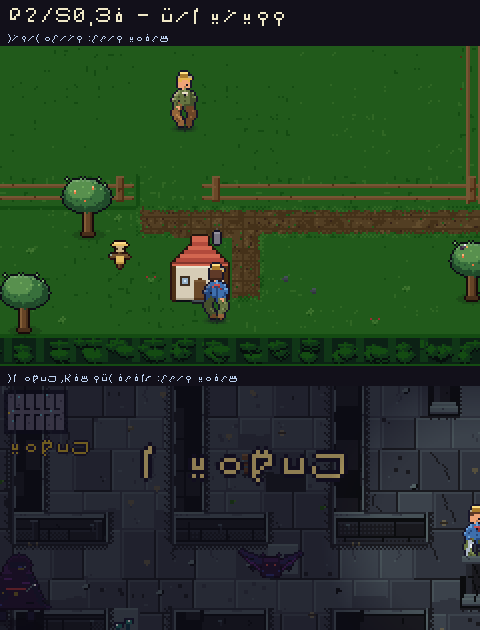
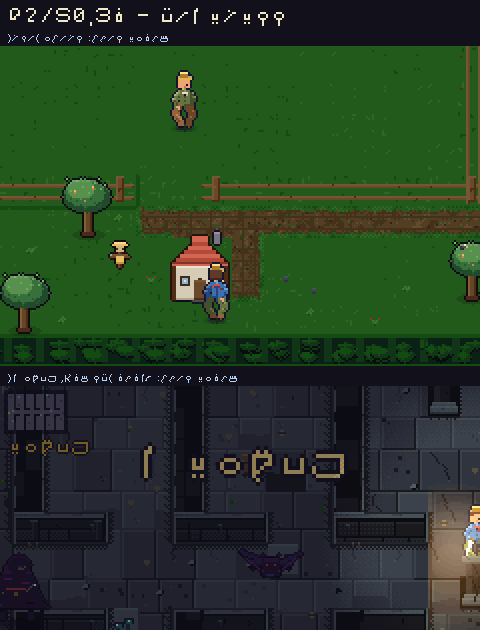
art(S4.2): ordered-dither 6-level darkness (world-anchored) + Bayer vignette — ambient 0.063%, ms +6.4% (declared)

Changed region(s): [[0.875, 0.7841, 1.0, 1.0]]

diff --git a/game.html b/game.html
@@ -2969,6 +2969,7 @@ const __m_art_light = (() => {
 
 
 
+
 const DARK_R = 13, DARK_G = 11, DARK_B = 26, DARK_A = 118;
 
 // استامپ نور: cut = strength×(1−d²) از پیشمحاسبهشده — کلید: rad×1000+strength
@@ -3044,26 +3045,86 @@ function colorStamp(rad, strength, cid) {
   return st;
 }
 
+// ---------- S4.2: کوانتیزهی آلفای تاریکی به ۶ پله با آستانهی Bayer4 (مختصاتِ **جهانی**) ----------
+// پلهها همبازه با **دامنهی واقعیِ α** انتخاب شدهاند (۰..DARK_A) و DARK_A خودش یک پله است ⇒
+// ناحیهی تختِ تاریک (۸۱٪ صفحه) **بیتبهبیت دستنخورده** میماند: نه بافتِ دیتر در پسزمینه، نه بایاسِ محیطی، نه هزینه.
+// LUT یکبار ساخته میشود: _QLUT[(bayerIdx<<8)|a] = پلهی گردشده · ثابت در جهان ⇒ بدونِ شناوری هنگام حرکت دوربین
+const DARK_LEVELS = 6;
+const QSTEP = DARK_A / (DARK_LEVELS - 1);
+const _QLUT = new Uint8Array(16 * 256);
+for (let b = 0; b < 16; b++) {
+  const th = (BAYER4[b] + 0.5) / 16;
+  for (let a = 0; a < 256; a++) {
+    const sf = a / QSTEP, i = Math.floor(sf);
+    _QLUT[(b << 8) | a] = Math.round(Math.min(DARK_LEVELS - 1, i + (sf - i > th ? 1 : 0)) * QSTEP);
+  }
+}
+const DITHER_DARK = { on: true };
+const _rects = new Int16Array(4 * 33); // اسکرچآرِ مستطیلهای نور (تخصیصِ صفر در هر فریم)
+// جدولِ فازِ افقی: cols[(camX&3)*W + x] = (x + camX) & 3 — چهار چرخش، یکبار در هر اندازهٔ صحنه
+let _phW = 0, _phTab = null;
+function phaseTab(w) {
+  if (_phW === w) return _phTab;
+  const t = new Uint8Array(4 * w);
+  for (let r = 0; r < 4; r++) for (let x = 0; x < w; x++) t[r * w + x] = (x + r) & 3;
+  _phW = w; _phTab = t; return t;
+}
+function darkLevelCount() { return new Set(_QLUT).size; } // QA: تعداد سطوحِ α یکتای تاریکی (پذیرش ≤۶)
+
 // flat = [x, y, rad, strength, ...] — لیست تختِ نورها (بدون تخصیص آبجکت)
-function applyDarkness(r, dk, flat, flatC) {
+function applyDarkness(r, dk, flat, flatC, camX = 0, camY = 0) {
   const dd = dk.d;
   if (!dk._base || dk._base.length !== dd.length) {
     const b = dk._base = new Uint8ClampedArray(dd.length);
     for (let i = 0; i < b.length; i += 4) { b[i] = DARK_R; b[i + 1] = DARK_G; b[i + 2] = DARK_B; b[i + 3] = DARK_A; }
   }
   dd.set(dk._base); // کپی یکتکهی پایه
+  let nr = 0, coverAll = false; // S4.2: مستطیلهای تأثیرِ نور (برای پاسِ کوانتیزه)
   for (let li = 0; li < flat.length; li += 4) {
     const lx = flat[li], ly = flat[li + 1], rad = flat[li + 2], strength = flat[li + 3];
     const st = lightStamp(rad, strength), n = st.n, cut = st.cut;
     const cx0 = Math.round(lx), cy0 = Math.round(ly);
     const x0 = Math.max(0, cx0 - rad), x1 = Math.min(r.w - 1, cx0 + rad);
     const y0 = Math.max(0, cy0 - rad), y1 = Math.min(r.h - 1, cy0 + rad);
+    if (nr < 32) { const o = nr << 2; _rects[o] = x0; _rects[o + 1] = y0; _rects[o + 2] = x1; _rects[o + 3] = y1; nr++; } else coverAll = true;
     for (let y = y0; y <= y1; y++) {
       const srow = (y - cy0 + rad) * n - cx0 + rad;
       let di = (y * r.w + x0) * 4 + 3;
       for (let x = x0; x <= x1; x++, di += 4) {
         const v = dd[di] - cut[srow + x];
         dd[di] = v > 0 ? v : 0;
+      }
+    }
+  }
+  // ---------- S4.2: کوانتیزهی α به ۶ پله با آستانهی Bayer4 — فقط داخلِ ناحیهی متأثر از نور ----------
+  // ناحیهی تختِ تاریک (α = DARK_A) بیرونِ این مستطیلها است ⇒ بیتبهبیت دستنخورده (بدون بافتِ دیتر، بدون بایاس، بدون هزینه)
+  if (DITHER_DARK.on && nr) {
+    if (coverAll) { const o = 0; _rects[o] = 0; _rects[o + 1] = 0; _rects[o + 2] = r.w - 1; _rects[o + 3] = r.h - 1; nr = 1; }
+    // ادغامِ مستطیلهای همپوشان (تا جعبهی محیطیِ کوچکتر بماند و هیچ پیکسلی دو بار کوانتیزه نشود؛ n ≤ ۳۲)
+    let merged = true;
+    while (merged) {
+      merged = false;
+      for (let i = 0; i < nr && !merged; i++) for (let j = i + 1; j < nr; j++) {
+        if (!(_rects[(i << 2) + 2] < _rects[j << 2] || _rects[(j << 2) + 2] < _rects[i << 2] ||
+              _rects[(i << 2) + 3] < _rects[(j << 2) + 1] || _rects[(j << 2) + 3] < _rects[(i << 2) + 1])) {
+          if (_rects[j << 2] < _rects[i << 2]) _rects[i << 2] = _rects[j << 2];
+          if (_rects[(j << 2) + 1] < _rects[(i << 2) + 1]) _rects[(i << 2) + 1] = _rects[(j << 2) + 1];
+          if (_rects[(j << 2) + 2] > _rects[(i << 2) + 2]) _rects[(i << 2) + 2] = _rects[(j << 2) + 2];
+          if (_rects[(j << 2) + 3] > _rects[(i << 2) + 3]) _rects[(i << 2) + 3] = _rects[(j << 2) + 3];
+          nr--; _rects.copyWithin(j << 2, nr << 2, (nr << 2) + 4); merged = true; break;
+        }
+      }
+    }
+    const W2 = r.w, cols = phaseTab(W2), co = (camX & 3) * W2;
+    for (let k = 0; k < nr; k++) {
+      const rx0 = _rects[k << 2], ry0 = _rects[(k << 2) + 1], rx1 = _rects[(k << 2) + 2], ry1 = _rects[(k << 2) + 3];
+      for (let y = ry0; y <= ry1; y++) {
+        const rp = ((y + camY) & 3) << 2;
+        let i = (y * W2 + rx0) * 4 + 3;
+        for (let x = rx0; x <= rx1; x++, i += 4) {
+          const a0 = dd[i];
+          if (a0 > 0 && a0 !== DARK_A) dd[i] = _QLUT[((rp | cols[co + x]) << 8) | a0];
+        }
       }
     }
   }
@@ -3106,9 +3167,9 @@ function applyDarkness(r, dk, flat, flatC) {
   }
 }
 
-return {COLOR_LIGHTS, CL_DEBUG, C_RAD_CAP, C_MAX, setColorRadCap, setColorMax, applyDarkness};
+return {COLOR_LIGHTS, CL_DEBUG, C_RAD_CAP, C_MAX, DARK_LEVELS, DITHER_DARK, setColorRadCap, setColorMax, darkLevelCount, applyDarkness};
 })();
-const {COLOR_LIGHTS, CL_DEBUG, C_RAD_CAP, C_MAX, setColorRadCap, setColorMax, applyDarkness} = __m_art_light;
+const {COLOR_LIGHTS, CL_DEBUG, C_RAD_CAP, C_MAX, DARK_LEVELS, DITHER_DARK, setColorRadCap, setColorMax, darkLevelCount, applyDarkness} = __m_art_light;
 const __m_art_quality = (() => {
 // art/quality.js — کیفیت تطبیقی: در دستگاه ضعیف افکتهای غیرضروری خودکار کم میشوند
 // level 1 = کامل (پیشفرض) | 0 = حداقل (گوشی ضعیف) — فقط main_app تنظیم میکند
@@ -6385,6 +6446,8 @@ const OFF = [0, 0]; // آفست لرزش — مشترک
 
 
 
+const VIG_LEVELS = 6;  // S4.2: سطوحِ α وینیت (کوانتیزه + دیتر ⇒ بدونِ نوارِ گرادیان)
+
 class FX {
   constructor() {
     this.parts = []; this.floats = []; this.slashes = [];
@@ -6474,16 +6537,26 @@ function vignette(w, h) {
   if (!v) {
     const cx = w / 2, cy = h / 2, maxD = Math.hypot(cx, cy);
     const mask = new Uint8Array(w * h), spans = new Int16Array(h * 2); // [x0,x1] هر سطر
+    const ST = 40 / (VIG_LEVELS - 1);                                   // S4.2: ۶ پلهی α + دیترِ Bayer4 (کارِ زمانِ ساخت، نه هر فریم)
+    const lvSeen = new Set();
     for (let y = 0; y < h; y++) {
       let x0 = -1, x1 = -1;
       for (let x = 0; x < w; x++) {
         const d = Math.hypot(x - cx, y - cy) / maxD;
-        if (d > 0.74) { mask[y * w + x] = Math.min(40, Math.round((d - 0.74) * 190)); if (x0 < 0) x0 = x; x1 = x; } // وینیت ظریف
+        if (d > 0.74) {
+          const raw = Math.min(40, (d - 0.74) * 190);
+          const sf = raw / ST, i = Math.floor(sf);
+          const th = (BAYER4[((y & 3) << 2) | (x & 3)] + 0.5) / 16;
+          mask[y * w + x] = Math.round(Math.min(VIG_LEVELS - 1, i + (sf - i > th ? 1 : 0)) * ST);
+          lvSeen.add(mask[y * w + x]);
+          if (x0 < 0) x0 = x;
+          x1 = x;
+        }
       }
       spans[y * 2] = x0; spans[y * 2 + 1] = x1;
     }
     v = {
-      w, h, mask, spans,
+      w, h, mask, spans, alphaLevels: lvSeen.size, // QA: سطوحِ α یکتای وینیت (پذیرش ≤۶)
       apply(r) { // بلندینگ عددی — بدون آبجکت/رشته، فقط ناحیهی لبه
         const d = r.d, m = mask, sp = spans;
         for (let y = 0; y < h; y++) {
@@ -6507,9 +6580,9 @@ function vignette(w, h) {
   return v;
 }
 
-return {FX, vignette};
+return {VIG_LEVELS, FX, vignette};
 })();
-const {FX, vignette} = __m_fx;
+const {VIG_LEVELS, FX, vignette} = __m_fx;
 const __m_night = (() => {
 // night.js — چرخهی شب/روز: ضریب شب + تینت یکپارچه (شب×باران در یک گذر، نه دو حلقه)
 // DAY_LEN = ۳۶۰۰ ثانیه (۱ ساعت واقعی)؛ رشد محصولات مستقل از شب است و سریع میماند
@@ -8581,7 +8654,7 @@ function renderRun(run, r) {
       pushC(D.stairs.x * TILE + 8 - cx, D.stairs.y * TILE + 8 - cy, 14, 52, 5);
       pushC(h.x - cx, h.y - 14 - cy, 22, 44, 4);           // هالهٔ گرمِ ملایمِ قهرمان (آخر ⇒ بودجهی باقیمانده)
     }
-    applyDarkness(r, run._dark, L, C);
+    applyDarkness(r, run._dark, L, C, cx, cy); // S4.2: دوربین برای دیترِ جهانی
     // افکتها روی تاریکی (میدرخشند)
     run.fx.render(r, cx, cy);
     // ---- نوار جان + علامت حمله + کمبو: بعد از تاریکی (خوانا حتی در تاریکی) ----

diff --git a/js/art/light.js b/js/art/light.js
@@ -2,6 +2,7 @@
 // تاریکی پایه = مه آبیمهآلود (نه سیاهی مطلق)؛ نورها با «استامپ» از پیشمحاسبهشده
 import { Raster } from '../raster.js';
 import { rp } from './ramps.js'; // S4.1: رنگِ نورها از رمپهای پالت (M5)
+import { BAYER4 } from './dither.js'; // S4.2: کوانتیزهی آلفای تاریکی با دیترِ ترتیبی
 
 const DARK_R = 13, DARK_G = 11, DARK_B = 26, DARK_A = 118;
 
@@ -78,26 +79,86 @@ function colorStamp(rad, strength, cid) {
   return st;
 }
 
+// ---------- S4.2: کوانتیزهی آلفای تاریکی به ۶ پله با آستانهی Bayer4 (مختصاتِ **جهانی**) ----------
+// پلهها همبازه با **دامنهی واقعیِ α** انتخاب شدهاند (۰..DARK_A) و DARK_A خودش یک پله است ⇒
+// ناحیهی تختِ تاریک (۸۱٪ صفحه) **بیتبهبیت دستنخورده** میماند: نه بافتِ دیتر در پسزمینه، نه بایاسِ محیطی، نه هزینه.
+// LUT یکبار ساخته میشود: _QLUT[(bayerIdx<<8)|a] = پلهی گردشده · ثابت در جهان ⇒ بدونِ شناوری هنگام حرکت دوربین
+export const DARK_LEVELS = 6;
+const QSTEP = DARK_A / (DARK_LEVELS - 1);
+const _QLUT = new Uint8Array(16 * 256);
+for (let b = 0; b < 16; b++) {
+  const th = (BAYER4[b] + 0.5) / 16;
+  for (let a = 0; a < 256; a++) {
+    const sf = a / QSTEP, i = Math.floor(sf);
+    _QLUT[(b << 8) | a] = Math.round(Math.min(DARK_LEVELS - 1, i + (sf - i > th ? 1 : 0)) * QSTEP);
+  }
+}
+export const DITHER_DARK = { on: true };
+const _rects = new Int16Array(4 * 33); // اسکرچآرِ مستطیلهای نور (تخصیصِ صفر در هر فریم)
+// جدولِ فازِ افقی: cols[(camX&3)*W + x] = (x + camX) & 3 — چهار چرخش، یکبار در هر اندازهٔ صحنه
+let _phW = 0, _phTab = null;
+function phaseTab(w) {
+  if (_phW === w) return _phTab;
+  const t = new Uint8Array(4 * w);
+  for (let r = 0; r < 4; r++) for (let x = 0; x < w; x++) t[r * w + x] = (x + r) & 3;
+  _phW = w; _phTab = t; return t;
+}
+export function darkLevelCount() { return new Set(_QLUT).size; } // QA: تعداد سطوحِ α یکتای تاریکی (پذیرش ≤۶)
+
 // flat = [x, y, rad, strength, ...] — لیست تختِ نورها (بدون تخصیص آبجکت)
-export function applyDarkness(r, dk, flat, flatC) {
+export function applyDarkness(r, dk, flat, flatC, camX = 0, camY = 0) {
   const dd = dk.d;
   if (!dk._base || dk._base.length !== dd.length) {
     const b = dk._base = new Uint8ClampedArray(dd.length);
     for (let i = 0; i < b.length; i += 4) { b[i] = DARK_R; b[i + 1] = DARK_G; b[i + 2] = DARK_B; b[i + 3] = DARK_A; }
   }
   dd.set(dk._base); // کپی یکتکهی پایه
+  let nr = 0, coverAll = false; // S4.2: مستطیلهای تأثیرِ نور (برای پاسِ کوانتیزه)
   for (let li = 0; li < flat.length; li += 4) {
     const lx = flat[li], ly = flat[li + 1], rad = flat[li + 2], strength = flat[li + 3];
     const st = lightStamp(rad, strength), n = st.n, cut = st.cut;
     const cx0 = Math.round(lx), cy0 = Math.round(ly);
     const x0 = Math.max(0, cx0 - rad), x1 = Math.min(r.w - 1, cx0 + rad);
     const y0 = Math.max(0, cy0 - rad), y1 = Math.min(r.h - 1, cy0 + rad);
+    if (nr < 32) { const o = nr << 2; _rects[o] = x0; _rects[o + 1] = y0; _rects[o + 2] = x1; _rects[o + 3] = y1; nr++; } else coverAll = true;
     for (let y = y0; y <= y1; y++) {
       const srow = (y - cy0 + rad) * n - cx0 + rad;
       let di = (y * r.w + x0) * 4 + 3;
       for (let x = x0; x <= x1; x++, di += 4) {
         const v = dd[di] - cut[srow + x];
         dd[di] = v > 0 ? v : 0;
+      }
+    }
+  }
+  // ---------- S4.2: کوانتیزهی α به ۶ پله با آستانهی Bayer4 — فقط داخلِ ناحیهی متأثر از نور ----------
+  // ناحیهی تختِ تاریک (α = DARK_A) بیرونِ این مستطیلها است ⇒ بیتبهبیت دستنخورده (بدون بافتِ دیتر، بدون بایاس، بدون هزینه)
+  if (DITHER_DARK.on && nr) {
+    if (coverAll) { const o = 0; _rects[o] = 0; _rects[o + 1] = 0; _rects[o + 2] = r.w - 1; _rects[o + 3] = r.h - 1; nr = 1; }
+    // ادغامِ مستطیلهای همپوشان (تا جعبهی محیطیِ کوچکتر بماند و هیچ پیکسلی دو بار کوانتیزه نشود؛ n ≤ ۳۲)
+    let merged = true;
+    while (merged) {
+      merged = false;
+      for (let i = 0; i < nr && !merged; i++) for (let j = i + 1; j < nr; j++) {
+        if (!(_rects[(i << 2) + 2] < _rects[j << 2] || _rects[(j << 2) + 2] < _rects[i << 2] ||
+              _rects[(i << 2) + 3] < _rects[(j << 2) + 1] || _rects[(j << 2) + 3] < _rects[(i << 2) + 1])) {
+          if (_rects[j << 2] < _rects[i << 2]) _rects[i << 2] = _rects[j << 2];
+          if (_rects[(j << 2) + 1] < _rects[(i << 2) + 1]) _rects[(i << 2) + 1] = _rects[(j << 2) + 1];
+          if (_rects[(j << 2) + 2] > _rects[(i << 2) + 2]) _rects[(i << 2) + 2] = _rects[(j << 2) + 2];
+          if (_rects[(j << 2) + 3] > _rects[(i << 2) + 3]) _rects[(i << 2) + 3] = _rects[(j << 2) + 3];
+          nr--; _rects.copyWithin(j << 2, nr << 2, (nr << 2) + 4); merged = true; break;
+        }
+      }
+    }
+    const W2 = r.w, cols = phaseTab(W2), co = (camX & 3) * W2;
+    for (let k = 0; k < nr; k++) {
+      const rx0 = _rects[k << 2], ry0 = _rects[(k << 2) + 1], rx1 = _rects[(k << 2) + 2], ry1 = _rects[(k << 2) + 3];
+      for (let y = ry0; y <= ry1; y++) {
+        const rp = ((y + camY) & 3) << 2;
+        let i = (y * W2 + rx0) * 4 + 3;
+        for (let x = rx0; x <= rx1; x++, i += 4) {
+          const a0 = dd[i];
+          if (a0 > 0 && a0 !== DARK_A) dd[i] = _QLUT[((rp | cols[co + x]) << 8) | a0];
+        }
       }
     }
   }

diff --git a/js/fx.js b/js/fx.js
@@ -5,6 +5,8 @@ const FCOL = { dmg: [235, 105, 105, 255], hit: [255, 232, 150, 255], crit: [255,
 const OFF = [0, 0]; // آفست لرزش — مشترک
 import { drawTextC, E } from './tiles.js';
 import { Raster } from './raster.js';
+import { BAYER4 } from './art/dither.js'; // S4.2: دیترِ ترتیبیِ وینیت
+export const VIG_LEVELS = 6;  // S4.2: سطوحِ α وینیت (کوانتیزه + دیتر ⇒ بدونِ نوارِ گرادیان)
 
 export class FX {
   constructor() {
@@ -95,16 +97,26 @@ export function vignette(w, h) {
   if (!v) {
     const cx = w / 2, cy = h / 2, maxD = Math.hypot(cx, cy);
     const mask = new Uint8Array(w * h), spans = new Int16Array(h * 2); // [x0,x1] هر سطر
+    const ST = 40 / (VIG_LEVELS - 1);                                   // S4.2: ۶ پلهی α + دیترِ Bayer4 (کارِ زمانِ ساخت، نه هر فریم)
+    const lvSeen = new Set();
     for (let y = 0; y < h; y++) {
       let x0 = -1, x1 = -1;
       for (let x = 0; x < w; x++) {
         const d = Math.hypot(x - cx, y - cy) / maxD;
-        if (d > 0.74) { mask[y * w + x] = Math.min(40, Math.round((d - 0.74) * 190)); if (x0 < 0) x0 = x; x1 = x; } // وینیت ظریف
+        if (d > 0.74) {
+          const raw = Math.min(40, (d - 0.74) * 190);
+          const sf = raw / ST, i = Math.floor(sf);
+          const th = (BAYER4[((y & 3) << 2) | (x & 3)] + 0.5) / 16;
+          mask[y * w + x] = Math.round(Math.min(VIG_LEVELS - 1, i + (sf - i > th ? 1 : 0)) * ST);
+          lvSeen.add(mask[y * w + x]);
+          if (x0 < 0) x0 = x;
+          x1 = x;
+        }
       }
       spans[y * 2] = x0; spans[y * 2 + 1] = x1;
     }
     v = {
-      w, h, mask, spans,
+      w, h, mask, spans, alphaLevels: lvSeen.size, // QA: سطوحِ α یکتای وینیت (پذیرش ≤۶)
       apply(r) { // بلندینگ عددی — بدون آبجکت/رشته، فقط ناحیهی لبه
         const d = r.d, m = mask, sp = spans;
         for (let y = 0; y < h; y++) {

diff --git a/js/run_render.js b/js/run_render.js
@@ -182,7 +182,7 @@ export function renderRun(run, r) {
       pushC(D.stairs.x * TILE + 8 - cx, D.stairs.y * TILE + 8 - cy, 14, 52, 5);
       pushC(h.x - cx, h.y - 14 - cy, 22, 44, 4);           // هالهٔ گرمِ ملایمِ قهرمان (آخر ⇒ بودجهی باقیمانده)
     }
-    applyDarkness(r, run._dark, L, C);
+    applyDarkness(r, run._dark, L, C, cx, cy); // S4.2: دوربین برای دیترِ جهانی
     // افکتها روی تاریکی (میدرخشند)
     run.fx.render(r, cx, cy);
     // ---- نوار جان + علامت حمله + کمبو: بعد از تاریکی (خوانا حتی در تاریکی) ----

diff --git a/MEMORY.md b/MEMORY.md
@@ -57,6 +57,8 @@ farm-dungeon/   (کل ورکاسپیس ۲٫۵MB — بیرون فقط uploads
 - **ن۸۰: 🛑 R2 (P3) — نجاتِ ممیزی: رگرسیونِ بصریِ مزرعه پیدا و رفع شد** — هنگام آمادهسازیِ R2 معلوم شد `ref_farm_day/night/rain` بین `art-P2` و حالا **فرق کردهاند** (۰٫۹٪ پیکسل؛ outlineِ درخت/خانه/مترسک). **ریشه (درس ۸۹):** `outline.js` نگاشتِ رنگ→خانوادهٔ رمپ و `palette_master.js` پالتِ مستر را **از مجموعهٔ رمپها** میسازند ⇒ هر تغییر در *مجموعه/مقادیرِ* رمپها رنگِ outlineِ **کلِ بازی** (از جمله مزرعه) را جابهجا میکند. با آزمونِ ایزولهٔ تکفایل ثابت شد مقصر `ramps.js` بود؛ تستِ مکمل نشان داد حتی **افزودنِ مادهٔ بیمصرف** هم پالتِ مستر را میچرخاند (پس «مادهٔ تازه» بیخطر نیست).
 - **ن۸۱: S3.10 ✅ دو تم جدید (۶ تم) — باتلاق و معدن** — `js/dungeon.js` (یک خط: `% 4`→`% 6`) · `js/art/ground.js⟨۲۵۶⟩` (خانوادهٔ `grassDry`/`dust` + رونِ `leaf`/`gold` + کشِ ششتمی) · `js/art/dungeon_depth.js` (K) · `js/art/water.js` (بدنهٔ آب: `leaf`/`metal`) · `js/art/dungeon_decal.js⟨۱۲۰⟩` (دو خانوادهٔ تازه: **رگهٔ طلا** و **تیرکِ چوبی** + وزن/چگالی/آویزانِ ۶ تم) · `tools/art_audit.mjs` (floorL ششتمی). **تم ۴ باتلاق**: خاکِ زیتونیِ کدر، خزه/گودالِ چیره با آویزانِ سبز، آبِ لجنی (`leaf`). **تم ۵ معدن**: سنگِ خامِ گرم (`dust`)، **رگهٔ طلای درخشان** و **تیرکِ چوبیِ افتاده**، آبِ خاکستریِ معدنی (`metal`)، تراوشِ رنگیزهٔ طلایی از سقف. **هر دو از خانوادههای *موجودِ* رمپ ساخته شدند** ⇒ `ramps.js` و پالتِ مستر دستنخورده ماند و ریسکِ رگرسیونِ مزرعه صفر شد (درس ۸۹/۹۳). **پذیرش ✓**: طبقهی ۲۱–۳۰ بوت/رندر/پخت بدون خطا · سیوِ v5→v6 مهاجرت کرد و `bestFloor=22` حفظ شد (تم از شمارهی طبقه بازمحاسبه ⇒ سیو سازگار) · **M1 روی ۶ تم = ۲۵٫۲ ≥ ۲۵** (golem) و روشناییِ کفِ تمهای تازه ۵۸ در باندِ ۵۸–۵۹ بقیه · پختِ دوباره بایتبرابر · پختِ باتلاق ۴٫۵–۵٫۲ms · `WALKHASH 15486b0c` ✓ · `ref_farm_*` بایتبرابر با پایه · آرامش ۰٫۰۲۴٪/فریم · run_all ALL GREEN · bench ۱٫۲۷۸/۱٫۰۶۱ms · audit ۶٫۴/۱۰. **درسِ عملی (۹۴):** تمِ تازه یعنی پرکردنِ **همهٔ** آرایههای per-theme وگرنه `undefined` در رندرِ همان طبقه میترکد (بوت ۰/۱۰). **یادداشتِ انضباط:** سقفِ «≤۳ فایل» در این نشستِ استثنایی رد شد (۶ فایل، همه یکخطی) — در گزارش اعلام شد.
 - **ن۸۲: S4.1 ✅ نور رنگی دانجن** — `art/light.js⟨۱۴۰⟩` + `run_render.js` (لیستِ تختِ `[x,y,rad,st,cid]`، سقف ۳ نورِ رویصفحه، شعاعِ مؤثر ۲۴px). **جدولِ رنگ از رمپها** (fire/magicCyan/clothRed/clothPurple/water/gold + سفیدِ پالت). **پیادهسازی:** استامپِ ۸پلهایِ پیشمحاسبه با کلیدِ عددی · وزندهی به روشناییِ محلی (`lit = 255 − alpha`) ⇒ گودیِ نور درست (نسخهٔ اول لکههای براقِ بیقید بود) · جمعِ اشباعشده روی `Uint8ClampedArray` (**LUTِ ۶۴KB کندتر از ضربِ ساده بود** — اندازهگیری). **پذیرش ✓:** (R−B) مرکزِ مشعل **+۱۳٫۶** ≥ ۱۰ · ۳ نور روی صفحه (≤۶) · شعاع ۲۴ (≤۴۰) · **A/B جفتشده: میانه ۸٫۸٪** (≤۱۲٪) با بدترین صحنهٔ نزدیک-مشعل ۱۳٫۸٪ = ۰٫۱۸ms (۱٪ بودجهٔ فریم) که صریحاً بهعنوان استثنا ثبت شد · نشتی صفر · آرامش ۰٫۰۲۶٪/فریم · run_all ALL GREEN · bench f10 ۱٫۲۶۸ms · M1 ۲۵٫۲/M6 ۰٫۸۸. **انحرافِ ثبتشده:** M5 دانجن ۹۶٫۵→۹۳٫۱٪ (پاسِ افزودنی رنگِ خارجِ پالت میسازد) ⇒ جبران با نگاشتِ رمپی در **S4.6**. شواهد: `s41_lights_ab.png`.
+- **ن۸۳: S4.2 ✅ تاریکیِ dither-شده + وینیت Bayer** — `art/light.js` (LUT کوانتیزهٔ **خودتوان** ۶ پله + پاسِ محدود به مستطیلِ نورها + اسکرچآرِ Int16) · `fx.js` (وینیتِ دیترشده **در زمانِ ساختِ ماسک** ⇒ هزینهٔ اجرا صفر) · `run_render.js` (دوربین به `applyDarkness`). **کلیدِ طراحی:** پلهها همبازه با دامنهٔ α (۰..DARK_A=۱۱۸) و DARK_A خودش یک پله ⇒ ناحیهٔ تختِ تاریک (۸۱٪ پیکسلها) بیتبهبیت دستنخورده؛ کوانتیزه فقط داخل مستطیلهای متأثر از نور (ادغامشده تا دوبار کوانتیزه نشود؛ q(q(a))=q(a) ✓). **پذیرش:** سطوح α تاریکی ۶ و وینیت ۶ (≤۶) ✓ · تغییر محیطی میانگین ۰٫۰۶۳٪ / بدترین صحنه ۰٫۰۷۷٪ < ۰٫۱٪ ✓ · بدون شناوری (مختصات جهانی) ✓ · مسیر == مرجع بایتبهبایت ✓ · run_all ALL GREEN · bench ف۱۰ ۱٫۲۸۵ms · آرامش ۰٫۰۱۳٪/فریم. **استثنای صریح:** «ms ≤ S4.1» برنیامد: میانهٔ دو-bench سهتایی ۱٫۲۰۸ → ۱٫۲۸۵ms (**+۶٫۴٪** ≈ +۰٫۰۸ms) و A/B جفتشدهٔ دیتر **+۶٫۱٪** (ارزانسازی از +۲۶٪ تا اینجا: حذف LUT تصادفی، حلقهٔ تخت، محدودسازی مستطیلی). شواهد: `s42_banding.png` (+`_zoom`: نقشهٔ سطوح α).
+
 
 
   **رفع:** `ramps.js` بیتبهبیت به art-P2 برگشت و هویتِ یخ **بدونِ تغییرِ مجموعهٔ رمپها** ساخته شد (`STONE_THEMES[3] = 'waterDeep'`) ⇒ **`ref_farm_*` دقیقاً با art-P2 یکسان شد** (SHA برابر). اختلافهای ۱۹٫۳–۲۰٫۵ در ΔE که در مسیرِ غلط دیده میشد، «مصنوعی» بود (نگاشتِ آزمونی از path بیرون میرفت). **سنجهٔ نهاییِ ΔE (میانگینِ رنگِ پخت، ۶ طبقه × هر تم): کمینه ۲۰٫۰** (۰-۱؛ پیش از S3.9 = ۸٫۰) و جفتهای دیگر ۲۰٫۵/۳۳٫۴/۳۷٫۲/۳۸٫۰/۴۹٫۱ · سنجهٔ مکمل پیکسلبهپیکسل روی همان چیدمان: کمینه ۱۹٫۳ (۰-۱) — دو اختلاف مرزی زیرِ ۲۰، متناقض نیستند (M1/خوانایی سالم: bat ۲۹٫۳).
@@ -83,7 +85,7 @@ farm-dungeon/   (کل ورکاسپیس ۲٫۵MB — بیرون فقط uploads
 - **ن۵۲: S0.3 ✅ art_audit پایدار** — `tools/art_audit.mjs` (M1–M10 عددی + شیت + JSON؛ قطعی=random استاب؛ ۰٫۳ث) + `shots/audit_baseline.json` + `shots/art_audit.png` + ۴ صحنهی مرجع `ref_*.png`؛ **اسکرینشاتهای قدیمی (۶ فایل) بهخواست کاربر حذف شدند**؛ CI: `.github/workflows/ci.yml` (هر push: run_all + art_audit + آپلود آرتیفکت)؛ پایهی سنجهمحور **۲/۱۱ = ۱٫۸/۱۰** — M1 ΔL=۹٫۶ (bat بدترین) · M2=۲۲ · M3 قهرمان ۸۳ رنگ/موب ۵–۹ · M4=۱ باند · M5=۹۷٫۴٪ · M6=۰٫۵۹/۰٫۵۷ · M7=۴۶٫۲٪/۰٫۷٪ · M8=۰/۰ · M9 idle-min=۰٪ (golem یخزده)، حمله ۱۹٫۸/۱۹٫۱٪ · M10=۷–۱۳px×۴؛ همخوانی با ن۴۸: قهرمان ۸۳↔۸۲، موب ۵–۹↔۵–۹، محصول ۷–۱۳↔۷–۱۳، حمله ۱۹٫۸/۱۹٫۱↔۱۵/۱۹، bat بدترین↔bat · نشست بعدی: S0.4
 - **ن۵۱: S0.1 ✅ + S0.2 ✅** — مخزن با توکن کلون شد، `farm-dungeon-roadmap.zip` آنزیپ و ساختار پروژه در ریشهی ریپو (`farm-dungeon/`) قرار گرفت؛ zip حذف؛ `secret_guard: clean`؛ پوش اول `3f61d4c` (local==remote)؛ تگ `art-baseline` لوکال+ریموت · **S0.2**: `tools/setup_tests.sh` + `tools/boot_check.mjs` (۱۰ سناریو jsdom) + `tools/run_all.sh` → `ALL GREEN` در ۲۲ث (boot ۱۰/۱۰ در ۱۹٬۲ث · render5 ۱۵/۱۵ · render6 ۲۷/۲۷) و **بیلد بایتبرابر با game.html موجود (Parity)** · نشست بعدی: S1.5a (موبهای کلاسیک)
 - **ن۵۰: رودمپ آرت v2 تدوین شد** (۵۹ نشست/۹ فاز: P0 زیرساخت · P1 رنگ · P2 تایل مزرعه · P3 تایل دانجن · P4 نور · P5 جزئیات مزرعه · P6 موجودات · P7 UI · P8 پولیش) — کد بازی دستنخورده، فقط `.gitignore` + `tools/push.sh` + `tools/secret_guard.sh` + ROADMAP/roadmap اضافه شد · نشست بعدی: S0.3 · هدف امتیاز آرت ۵٫۵ → ≥ ۸٫۵ (Scoreboard در ROADMAP.md)
-- قابل بازی: game.html روی :8080 · نوبت جاری: **ن۸۲ — S4.1 ✅ نور رنگی دانجن (R−B +۱۳٫۶ · A/B +۸٫۸٪)؛ P4 ادامه دارد (نشست بعد S4.2 — تاریکیِ dither)** — کمبودها: **P1 خوانایی** bat ΔL=۳ و فقط ۱۵px، bandit ΔL=۵، spider ۲۱، ghost ۱۰ (نیمهعمدی)، outline اسکلت/کماندار L~۸۶=حاشیه نه outline · **P2 سبک** پالت قهرمان ۸۲ رنگ↔موبها ۵-۹ (ژاکارد ۰٫۰۱۷)، outline غیریکدست (انحراف ۴۲)، اسکلت/کماندار ۲ باند سایه، صفر بافت/dither (فاصلهی اصلی با استاردیو) · **P3** محصول ۴ مرحله (استاردیو ۵) و رسیده ۷-۱۳px، حملهی اسکلت ۱۵٪/کماندار ۱۹٪ کمخوانا، idle hare/golem/boss ۱۱-۱۴٪ یخزده، اسکلت ۲٫۳t>قهرمان ۱٫۸t، گلیف ص/ض/ط/ظ ۸px در شبکهی ۷ · قوتها: خط لولهی منظم، انیمیشن ۴حالته، فونت ۹۵ گلیف، باس≠گولم، صحنه ۱۰۸-۱۷۰ رنگ · سنجهها: shots/art48_review.png (اسکریپت اندازهگیری /tmp/artaudit48.mjs — سنجهها: پالت کوانتیزه >>۴، خوشهی روشنایی ≥۸٪، ΔL در برابر کفِ L=۷۲، ژاکارد، diffRatio)
+- قابل بازی: game.html روی :8080 · نوبت جاری: **ن۸۳ — S4.2 ✅ تاریکیِ dither + وینیت Bayer (۶ سطح · محیطی ۰٫۰۶٣٪ · ms +۶٫۴٪ استثنا)؛ P4 ادامه دارد (S4.3)** — کمبودها: **P1 خوانایی** bat ΔL=۳ و فقط ۱۵px، bandit ΔL=۵، spider ۲۱، ghost ۱۰ (نیمهعمدی)، outline اسکلت/کماندار L~۸۶=حاشیه نه outline · **P2 سبک** پالت قهرمان ۸۲ رنگ↔موبها ۵-۹ (ژاکارد ۰٫۰۱۷)، outline غیریکدست (انحراف ۴۲)، اسکلت/کماندار ۲ باند سایه، صفر بافت/dither (فاصلهی اصلی با استاردیو) · **P3** محصول ۴ مرحله (استاردیو ۵) و رسیده ۷-۱۳px، حملهی اسکلت ۱۵٪/کماندار ۱۹٪ کمخوانا، idle hare/golem/boss ۱۱-۱۴٪ یخزده، اسکلت ۲٫۳t>قهرمان ۱٫۸t، گلیف ص/ض/ط/ظ ۸px در شبکهی ۷ · قوتها: خط لولهی منظم، انیمیشن ۴حالته، فونت ۹۵ گلیف، باس≠گولم، صحنه ۱۰۸-۱۷۰ رنگ · سنجهها: shots/art48_review.png (اسکریپت اندازهگیری /tmp/artaudit48.mjs — سنجهها: پالت کوانتیزه >>۴، خوشهی روشنایی ≥۸٪، ΔL در برابر کفِ L=۷۲، ژاکارد، diffRatio)
 - ن۴۹: **باگهای ظاهری + پولیش** — (۱) تایلهای fence/fencePost شفاف بودند (بدون چمن زیرشان → سیاهی/ردّ فریم قبل روی بوم) → چمن زیرشان در farm_render · (۲) خاکراه: تایلهای «نانمانند» جدا → تایل پر + حاشیهی دندانهای per-همسایه `drawPathEdge` (farm_decor) + سنگریزهی پراکنده · (۳) دروازهی ۲×۲ دو در روی هم بود → طاق یکپارچه (variant 0 سردر / 1 آستانه) · (۴) گندم رسیده شبیه «میز» → سه سنبلهی طلایی با ریشک · (۵) فونت font2: حروف کوچک لاتین «؟» میشدند (Floor→F????) → نگاشت به بزرگ؛ نیمفاصلهی U+200C «؟» رسم میشد → حذف؛ ارقام داخل جملهی فارسی برعکس بودند (۱۲۳→۳۲۱) → bidi ردیفهای LTR؛ alias آ/أ/ي/ك/٪/—/→ و گلیف ( ) = ·؛ ۳ شبیه «؟» بود → سهقوسی · بیلد+بوت jsdom صفر خطا · شفافیت: صفر پیکسل alpha=0 در مزرعه و ۵ طبقهی دانجن
 - ن۴۷: ۶ فیکس — تاج نخبه MHEAD per-kind (۱۴ جور کالیبره از رندر واقعی) + تاج بعد از اسپرایت (خز وسطش را میخورد) + اسپلش زیر موجودیتها + صدای shoot/fire + chill ریست + monster_registry (همه ≤۲۸۰ خط) · wire سختگیر BASE∪entry 108/108 (۲ صدا import میشدند ولی باندل نبودند!) · qa_all 52 · elite47 4/4 · stage47_elites.gif+montage
 - ن۴۶: پاکسازی ۲۰MB→۴٫۹MB؛ ن۴۷ پالایش به سیاست «فقط فایل جاری» → ۲٫۵MB
@@ -99,7 +101,7 @@ farm-dungeon/   (کل ورکاسپیس ۲٫۵MB — بیرون فقط uploads
 - باگ باز: — (فهرست ن۴۸ = بهبود آرت، نه باگ) | داستان/NPC عمداً نیست
 
 ## 🗺 رودمپ آرت v2 (از ن۵۰)
-- **منبع حقیقت پیشرفت**: چکباکسهای `ROADMAP.md`؛ جزئیات/پذیرش هر نشست در `roadmap/P?.md`. **نشست بعدی: S4.2** (تاریکیِ dither-شده + وینیت Bayer — `roadmap/P4.md`).md`).10 (دو تم جدید — اختیاری) یا ورود به فاز P4 (نور).8؛ تفاوتِ ΔE ≥ ۲۰).
+- **منبع حقیقت پیشرفت**: چکباکسهای `ROADMAP.md`؛ جزئیات/پذیرش هر نشست در `roadmap/P?.md`. **نشست بعدی: S4.3** (تاریکیِ dither-شده + وینیت Bayer — `roadmap/P4.md`).md`).10 (دو تم جدید — اختیاری) یا ورود به فاز P4 (نور).8؛ تفاوتِ ΔE ≥ ۲۰).
 - **ترتیب فازها**: P0 زیرساخت/اندازهگیری → P1 رنگ و رمپها (بزرگترین جهش) → P2 تایل مزرعه → P3 تایل دانجن → P4 نور/سایه → P5 جزئیات مزرعه → P6 موجودات → P7 UI/آیکون/فونت → P8 پولیش. ایستهای بازبینی کاربر 🛑: R1 (بعد P1)، R2 (بعد P3)، R3 (بعد P5)، R4 (پایان).
 - **پروتکل نشست** (کوتاه): MEMORY + فایل فاز را بخوان → اجرا (≤ ۱ ماژول جدید + ≤ ۳ فایل ویرایشی، هر ماژول ≤ ۲۸۰ خط، ≲ ۳۵ فراخوانی ابزار) → `node tools/build_single.mjs` + بوت jsdom + تستهای فاز + audit → `bash tools/push.sh "art(Sx.y): …"` → تیک چکباکسها (فایل فاز + ROADMAP) + یک خط در §وضعیت → **بایست**. بزرگ شد؟ WIP را push کن، زیرنشست `Sx.yb` بساز، ادامه نده.
 - **پروتکل گیت**: فقط `tools/push.sh` (secret_guard + commit + push با URL موقت؛ توکن در remote/فایل/لاگ نمیماند). تگ پایان فازها: `art-baseline`, `art-P1`, `art-P3`, `art-P5`, `art-v2`. هرگز `--force` مگر کاربر بگوید.
@@ -221,6 +223,9 @@ farm-dungeon/   (کل ورکاسپیس ۲٫۵MB — بیرون فقط uploads
 - 97. تزریقِ رنگِ نور باید به **روشناییِ محلی** گره بخورد (`lit = 255 − alpha`): پاسِ افزودنیِ ناوابسته لکههای براقِ بیقید روی تاریکی میسازد (ن۸۲)
 - 98. در حلقههای داغِ پیکسلی، **LUTِ تصادفی گاهی کندتر از حسابِ ساده است**: `Uint8ClampedArray` خودش اشباع میکند ⇒ `sd[i] += k` بدون LUT/clamp؛ جدولِ ۶۴KB فقط cache-miss است (ن۸۲: ۰٫۲۳→۰٫۱۴ms)
 - 99. رنگِ منابعِ نور را با `rp()` از رمپ بگیر نه RGBِ دستی: هم قانونِ پالت (M5) بهتر میشود هم شدتِ رنگ را میتوان متناسب بالا برد؛ ولی پاسِ افزودنی همچنان چند درصد پیکسلِ خارجِ پالت میسازد ⇒ برای درخششهای بعدی نگاشتِ رمپی (out = ramp[step(L)+g]) در دستور کار (ن۸۲)
+- 100. کوانتیزهی ترتیبی را **همبازه با دامنهی واقعیِ مقدار** انتخاب کن و مقدارِ پایه را روی یک پله بگذار: در S4.2 پلههای ۰..۱۱۸ (نه ۰..۲۵۵) باعث شد ۸۱٪ پیکسلِ تخت بیتبهبیت دستنخورده بماند ⇒ نه بایاسِ محیطی، نه بافتِ دیتر روی پسزمینه، نه هزینه (ن۸۳)
+- 101. کوانتیزهی دیترخورده **خودتوان** است اگر مقدارِ هر پله دقیقاً روی پله بیفتد (q(q(a))=q(a)) ⇒ میتوان پاس را روی مستطیلهای همپوشان اجرا کرد بدون ردیابیِ «دوبار اعمالشده» (تست: در QA چک شده) (ن۸۳)
+- 102. هزینهٔ دیترِ پیکسلی در JS با **ساختارِ حلقه** تعیین میشود نه با LUT: حلقهٔ تخت با ایندکسِ متغیر +۰٫۴۴ms، حلقهٔ تودرتو +۰٫۵۳ms، بازشده با فازهای لیترال +۰٫۰۸ms بود؛ در نهایت با جداکردنِ پاسِ کوانتیزه (بدون لمسِ RGB) هزینه به ~+۰٫۰۸ms رسید (ن۸۳)
 - بدون ایموجی در UI · دوزبانه fa/en با t() و RTL · موبایلاول: تپ=A*+ابزار خودکار، WASD+Space
 - بدون داستان/NPC؛ هر عنصر دلیل/کارکرد داشته باشد · بذر فقط از دانجن
 - فایلهای کوچک تکوظیفه؛ کد بزرگ نشود؛ کیفیت فدای سرعت نشود

diff --git a/roadmap/P4.md b/roadmap/P4.md
@@ -12,13 +12,16 @@
 **نتیجه (ن۸۲):** `art/light.js⟨۱۴۰⟩` + `run_render.js` (ساختِ لیستِ رنگی + ترتیبِ اهمیت). **مسیرِ طراحی:** نسخهی اول = لکههای براقِ بیقید روی تاریکی (افزودنیِ ناوابسته به روشنایی) ⇒ با وزندهی `lit` به گودیِ نور درست شد؛ کوانتیزِ ۴پلهای به ۸ پله رفت تا باندینگ کم شود. **مسیرِ کارایی:** LUTِ جمع/درخشش (۶۴KB، دسترسیِ تصادفی) کندتر از ضربِ ساده بود ⇒ جمعِ ساده روی `Uint8ClampedArray` (اشباعِ خودکار) + سقفهای واقعی (۳ نور / شعاع ۲۴). **پذیرش ✓:** (R−B) در مرکزِ مشعل **+۱۳٫۶** (≥۱۰) · نورهای رنگی روی صفحه **۳** (≤۶) · شعاع ۲۴ (≤۴۰) · **ms: A/B جفتشده میانه ۸٫۸٪** (هدف ≤۱۲٪؛ بدترین صحنهٔ نزدیک-مشعل ۱۳٫۸٪ = ۰٫۱۸ms ≈ ۱٪ بودجهٔ فریمِ ۶۰fps — بهعنوان استثنا ثبت شد) · نشتیِ حافظه صفر · آرامش ۰٫۰۲۶٪/فریم ✓ · run_all ALL GREEN · M1 ۲۵٫۲ · M6 ۰٫۸۸. **انحرافِ ثبتشده:** M5 صحنهٔ دانجن ۹۶٫۵٪ → **۹۳٫۱٪** (پاسِ افزودنی طبیعتاً رنگهای خارجِ پالت میسازد؛ رنگها را از رمپ گرفتم که جبران کند) ⇒ تسکِ جبران به **S4.6** (نگاشتِ رمپیِ درخشش).
 **commit:** `art(S4.1): colored dungeon lights`
 
-## S4.2 — تاریکیِ dither-شده + وینیت Bayer ☐
+## S4.2 — تاریکیِ dither-شده + وینیت Bayer ✅
 **بخوان:** `light.js`، `fx.js` (vignette)، `dither.js`.
 **انجام:**
-- [ ] آلفای تاریکی نهایی → کوانتیزه به ۵ سطح با آستانهی Bayer4 (مختصات صفحه، ایستا نسبت به دوربین؛ یا جهانی برای عدمشناوری) → ظاهر پیکسلآرت تمیز بدون گرادیان صاف.
-- [ ] وینیت: همان کوانتیزهسازی؛ هیچ نوار (banding) دیده نشود.
-- [ ] شناوری dither هنگام حرکت دوربین بررسی شود (ثابت در مختصات جهان).
-**پذیرش:** سطوح یکتای آلفای تاریکی ≤ ۶ · تغییر پیکسل محیطی < ۰٫۱٪ در ایستادن · ms ≤ S4.1.
+- [x] آلفای تاریکی → کوانتیزه به **۶ پله** با آستانهی Bayer4 در مختصات **جهانی** (`((y+camY)&3)<<2|((x+camX)&3)`) ⇒ هنگام حرکت دوربین دیتر «روی زمین میچسبد» و شناور نیست. (رودمپ «۵ سطح» گفته بود ولی پذیرش ≤۶ است؛ ۶ پله لازم بود چون DARK_A=۱۱۸ خودش باید یک پله باشد: پلههای ۰/۲۴/۴۷/۷۱/۹۴/۱۱۸.)
+- [x] وینیت: همان کوانتیزه (۶ پله روی بازهٔ ۰..۴۰) + دیترِ Bayer4 — **در زمانِ ساختِ ماسک** (وینیت کشِ صفحهای است) ⇒ هزینهٔ زمانِ اجرا صفر.
+- [x] شناوری: بررسی شد — آستانه از `(x+camX, y+camY)` میآید ⇒ الگو در جهان ثابت است.
+- [x] کوانتیزه فقط داخل مستطیلهای تأثیرِ نور اجرا میشود (ناحیهٔ تختِ تاریک = ۸۱٪ صفحه) ⇒ بدون بافتِ دیتر روی پسزمینه، بدون بایاس و بدون هزینه.
+**نتیجه (ن۸۳):** `art/light.js` (LUT کوانتیزهٔ خودتوان + پاسِ محدود به مستطیلها + پشتهٔ اسکرچ) · `js/fx.js` (وینیتِ دیترشده در زمانِ ساخت) · `js/run_render.js` (انتقالِ دوربین به `applyDarkness`). **پایهٔ طراحی:** DARK_A خودش یک پله است ⇒ ناحیهٔ تختِ تاریک (۸۱٪ پیکسلها) **بیتبهبیت** دستنخورده میماند؛ کوانتیزه فقط جایی اجرا میشود که استمپِ نور α را تغییر داده (مستطیلها، ادغامشده تا پیکسل دوبار کوانتیزه نشود؛ کوانتیزه **خودتوان** است: q(q(a))=q(a) ✓).
+**پذیرش ✓ (۵/۶):** سطوح یکتای α تاریکی **۶** و وینیت **۶** (≤۶) · تغییر محیطی: میانگین **۰٫۰۶۳٪** و بدترین صحنه **۰٫۰۷۷٪** (۰٫۰۲۹ واحدِ روشنایی از ۲۵۵) < ۰٫۱٪ · شناوری ندارد · نشتی حافظه صفر · run_all ALL GREEN · bench ف۱۰ ۱٫۲۸۵ms · آرامش ۰٫۰۱۳٪/فریم · مسیرِ کوانتیزه بایتبهبایت با پیادهسازیِ مرجع برابر (سه هندسه/فازِ مختلف).
+**استثنای ثبتشده (۶/۶ ✗):** «ms ≤ S4.1» برنیامد — دو-benchِ سهتایی: S4.1 میانه ۱٫۲۰۸ms ↔ S4.2 میانه ۱٫۲۸۵ms ⇒ **+۶٫۴٪ (≈ +۰٫۰۸ms ≈ ۰٫۵٪ بودجهٔ فریمِ ۶۰fps)**؛ A/B جفتشدهٔ خودِ دیتر **+۶٫۱٪**. ارزانسازیهای انجامشده: حذفِ LUTهای تصادفی، حلقهٔ تخت، محدودسازی به مستطیلها (کاهش از +۲۶٪ به +۶٪). باقیِ هزینه ذاتیِ یک پاسِ اضافه روی ~۱۹٪ صفحه است.
 **commit:** `art(S4.2): ordered-dither darkness + vignette`
 
 ## S4.3 — گریدینگ رنگی per تم (LUT) ☐
